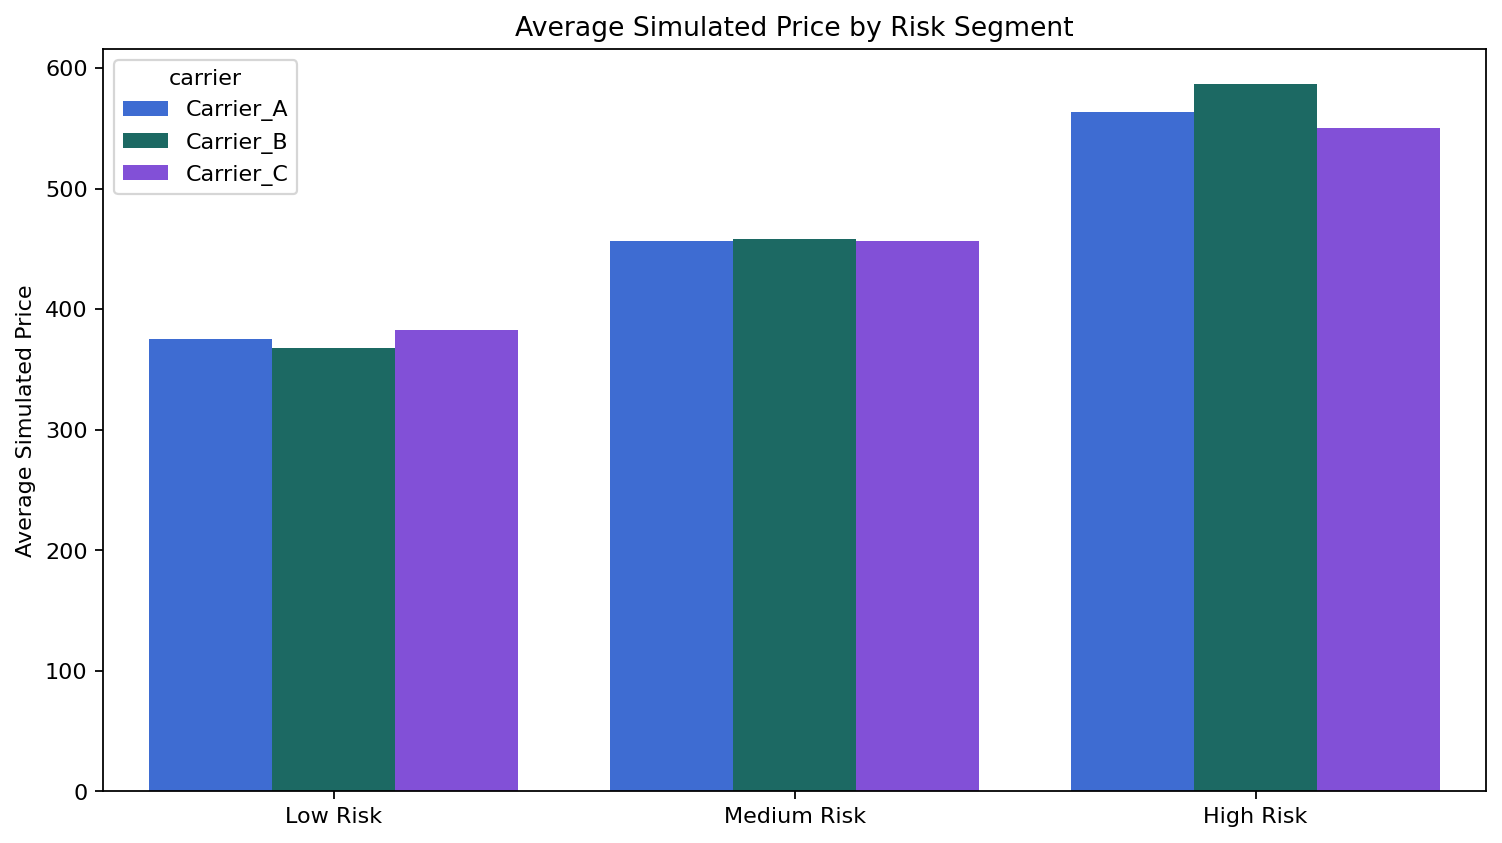
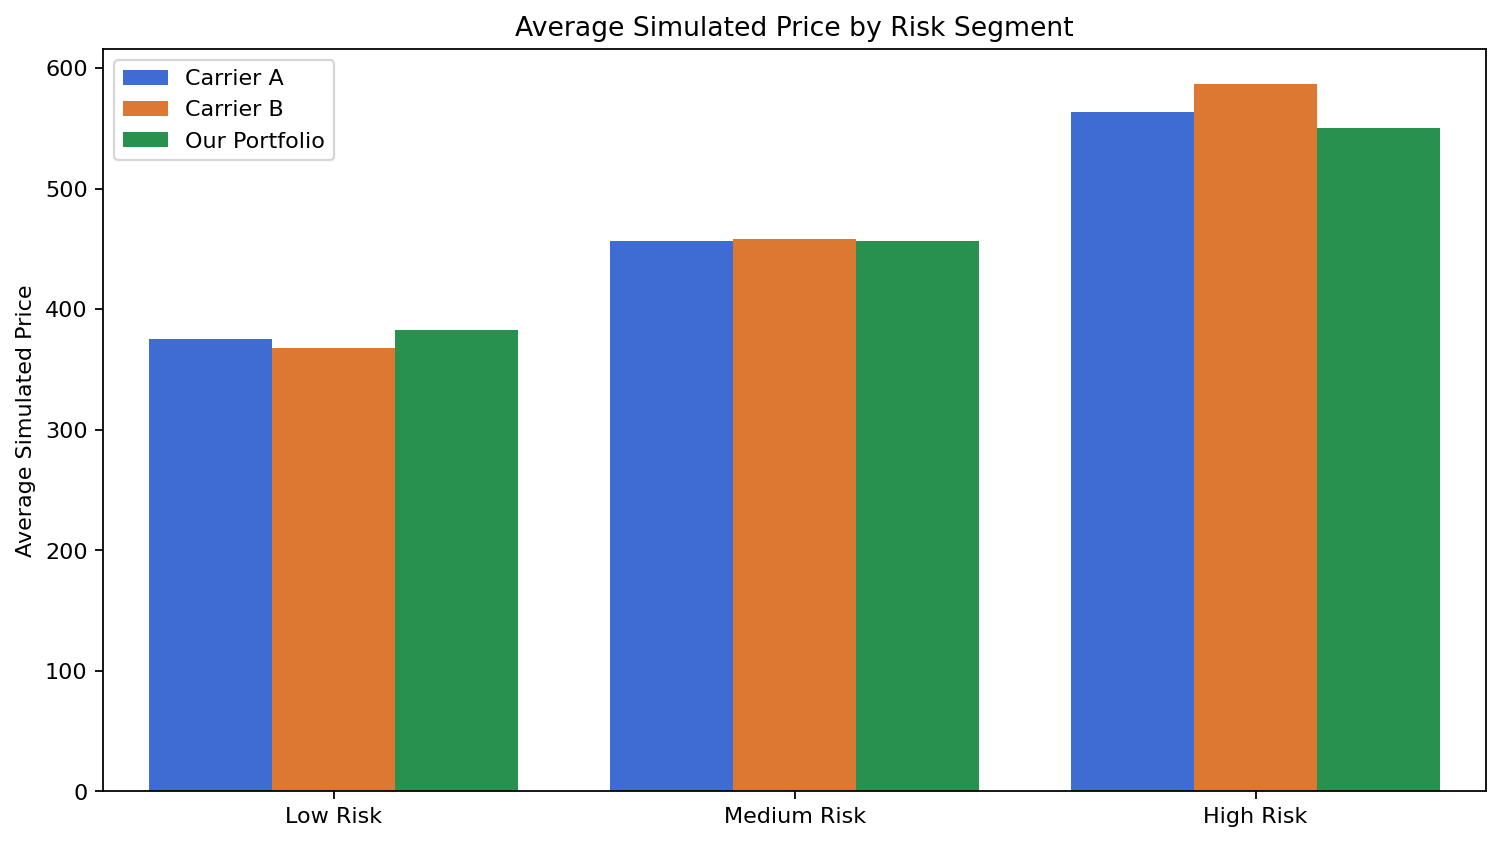
Update umbrella carrier colors and distribution chart

diff --git a/src/visualization.py b/src/visualization.py
@@ -15,8 +15,13 @@ ROOT = Path(__file__).resolve().parents[1]
 OUTPUT_DIR = ROOT / "outputs"
 CARRIER_PALETTE = {
     "Carrier_A": "#2563eb",
-    "Carrier_B": "#0f766e",
-    "Carrier_C": "#7c3aed",
+    "Carrier_B": "#f97316",
+    "Carrier_C": "#16a34a",
+}
+CARRIER_LABELS = {
+    "Carrier_A": "Carrier A",
+    "Carrier_B": "Carrier B",
+    "Carrier_C": "Our Portfolio",
 }
 
 
@@ -33,13 +38,20 @@ def plot_price_distribution_by_carrier(df, filename="price_distribution_by_carri
     fig, ax = plt.subplots(figsize=(10, 5.6))
     bins = np.arange(400, 2001, 100)
     centers = bins[:-1] + np.diff(bins) / 2
+    offsets = {"Carrier_A": -26, "Carrier_B": 0, "Carrier_C": 26}
     for carrier, carrier_df in df.groupby("carrier"):
         clipped = carrier_df["simulated_price"]
         counts, _ = np.histogram(clipped, bins=bins)
         percentages = counts / len(carrier_df) * 100
         color = CARRIER_PALETTE.get(carrier, "#2563eb")
-        ax.plot(centers, percentages, marker="o", linewidth=2.4, label=carrier, color=color)
-        ax.fill_between(centers, percentages, alpha=0.12, color=color)
+        ax.bar(
+            centers + offsets.get(carrier, 0),
+            percentages,
+            width=24,
+            label=CARRIER_LABELS.get(carrier, carrier),
+            color=color,
+            alpha=0.86,
+        )
     ax.set_title("Simulated Personal Umbrella Price Distribution by Carrier")
     ax.set_xlabel("Simulated Annual Price")
     ax.set_ylabel("Percentage of Portfolio")
@@ -53,11 +65,14 @@ def plot_price_distribution_by_carrier(df, filename="price_distribution_by_carri
 
 def plot_segment_comparison(df, filename="segment_price_comparison.png"):
     sample = df.groupby(["risk_segment", "carrier"], observed=True, as_index=False).agg(avg_price=("simulated_price", "mean"))
+    sample["carrier_label"] = sample["carrier"].map(CARRIER_LABELS).fillna(sample["carrier"])
     fig, ax = plt.subplots(figsize=(9.5, 5.4))
-    sns.barplot(data=sample, x="risk_segment", y="avg_price", hue="carrier", palette=CARRIER_PALETTE, ax=ax)
+    palette = {CARRIER_LABELS[key]: value for key, value in CARRIER_PALETTE.items()}
+    sns.barplot(data=sample, x="risk_segment", y="avg_price", hue="carrier_label", palette=palette, ax=ax)
     ax.set_title("Average Simulated Price by Risk Segment")
     ax.set_xlabel("")
     ax.set_ylabel("Average Simulated Price")
+    ax.legend(title="")
     return _save(fig, filename)
 
 